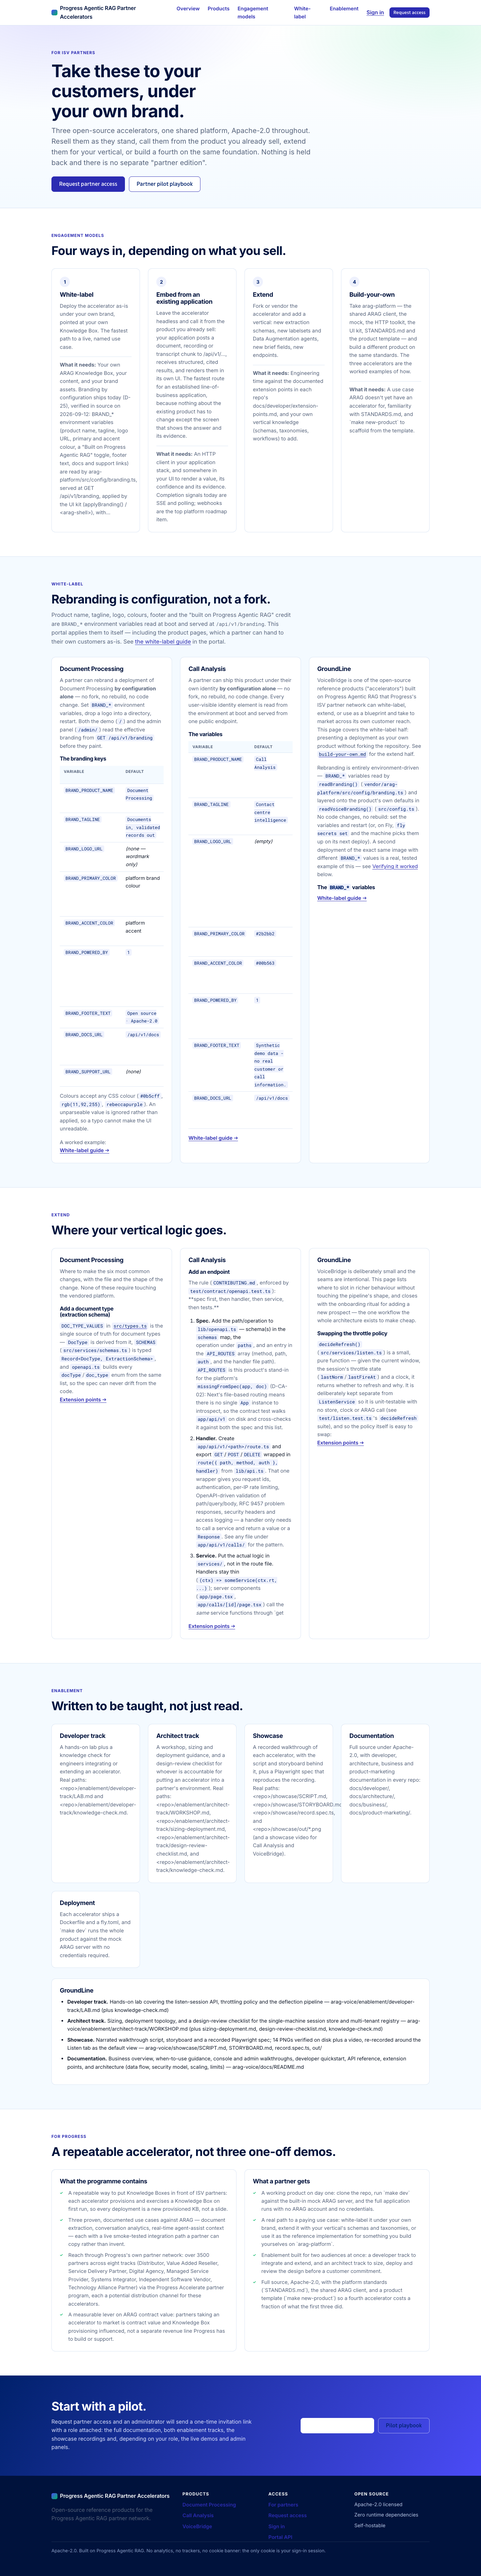
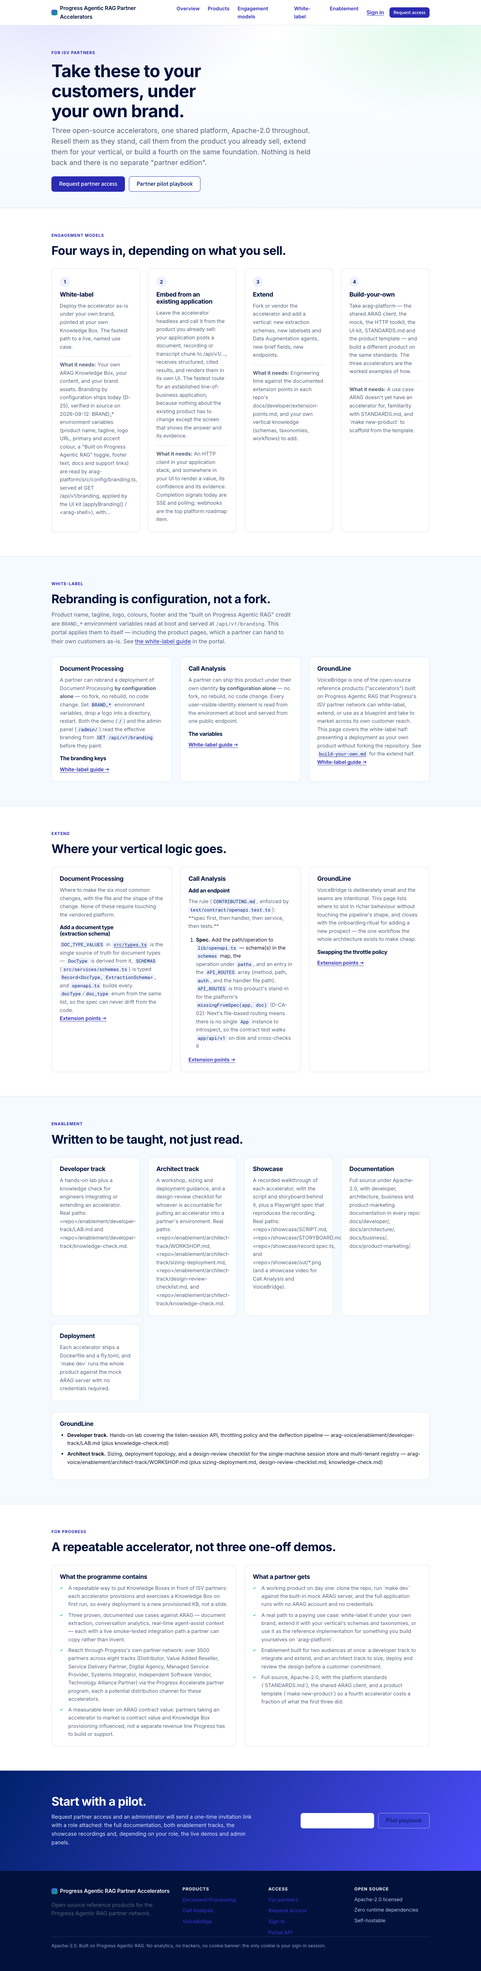
fix(ui): keep the partner cards comparable and the gallery uniform
The white-label and extension-point excerpts on /partners are teasers beside
each other in a grid, so 1400 characters made three cards of wildly different
height and turned the section into a wall of text. Capped at ~620 characters
cut on a paragraph break, with the full guide one link away in the portal.

The showcase gallery now crops every still to 16:10, because the source
screenshots are different heights and a ragged gallery reads as an accident
rather than as a design.

Claude-Session: https://claude.ai/code/session_01QUMEPj4JqUPxBgWoUVwonZ

diff --git a/src/routes/pages.ts b/src/routes/pages.ts
@@ -273,7 +273,9 @@ export function publicProductView(deps: Deps, product: Product): PublicProduct {
         renderFragment(slug, "docs/business/faq.md", stripTitle(faq)),
     proofHtml: renderMarkdown(proofToMarkdown(customer.proof ?? copy.proof)).html,
     partnerModels: copy.partnerModels ?? [],
-    enablementHtml: copy.enablement ? renderMarkdown(enablementToMarkdown(copy.enablement)).html : "",
+    enablementHtml: copy.enablement
+      ? renderMarkdown(firstSections(enablementToMarkdown(copy.enablement), 700)).html
+      : "",
     demoUrl: deps.publicDemoLinks ? deps.catalogue.demoUrl(product) : null,
     hasMermaid: Boolean(mermaid),
     whiteLabelHtml: renderFragment(slug, "docs/developer/white-label.md", firstSections(whiteLabel)),
@@ -292,14 +294,18 @@ function stripTitle(markdown: string): string {
   return markdown.replace(/^#\s+.+\n+/, "");
 }
 
-/** The opening of a long developer document — enough for a public teaser, never the whole guide. */
-function firstSections(markdown: string, maxChars = 1400): string {
+/**
+ * The opening of a long developer document — a teaser on a card, never the whole guide. These
+ * excerpts sit in a grid beside each other on /partners, so they have to be short enough that the
+ * cards stay comparable; the full text is one link away inside the portal.
+ */
+function firstSections(markdown: string, maxChars = 620): string {
   if (!markdown) return "";
   const body = stripTitle(markdown);
   if (body.length <= maxChars) return body;
   const cut = body.slice(0, maxChars);
   const lastBreak = Math.max(cut.lastIndexOf("\n\n"), cut.lastIndexOf("\n- "));
-  return cut.slice(0, lastBreak > 400 ? lastBreak : maxChars);
+  return cut.slice(0, lastBreak > maxChars * 0.4 ? lastBreak : maxChars);
 }
 
 /** Drop cards that talk to a partner about reselling rather than to a customer about the product. */
